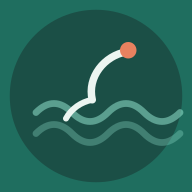
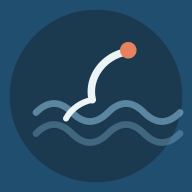
Switch theme from teal-green to deep ocean blue
Recolor the CSS palette, chart lines, app icons, and favicon from the
teal/emerald scheme to a deep sea-blue palette for a stronger ocean
feel. Coral and amber accent colors are kept for contrast.

Claude-Session: https://claude.ai/code/session_01NPJJPuwYrZegrDM2w1YF7g

diff --git a/index.html b/index.html
@@ -5,7 +5,7 @@
 <meta name="viewport" content="width=device-width, initial-scale=1.0, maximum-scale=1.0">
 <title>บันทึกฟาร์มกุ้งรายสัปดาห์</title>
 <meta name="description" content="แอปบันทึกข้อมูลฟาร์มกุ้งรายสัปดาห์ ติดตามไซส์กุ้ง อาหาร และ ADG ใช้งานได้แบบออฟไลน์">
-<meta name="theme-color" content="#1F6E5F">
+<meta name="theme-color" content="#1C6FA6">
 <link rel="manifest" href="./manifest.webmanifest">
 <link rel="icon" href="./favicon.ico" sizes="any">
 <link rel="icon" type="image/png" sizes="192x192" href="./icons/icon-192.png">
@@ -19,28 +19,28 @@
 <link href="https://fonts.googleapis.com/css2?family=Taviraj:wght@400;500;600;700&family=IBM+Plex+Sans+Thai:wght@400;500;600;700&display=swap" rel="stylesheet">
 <style>
   :root{
-    --bg:#0A1614;
-    --bg-grad:radial-gradient(1200px 600px at 50% -10%, rgba(47,163,140,.12), transparent 60%);
-    --surface:#132622;
-    --surface-soft:#18332C;
-    --surface-hi:#1E3A32;
-    --ink:#F1F7F4;
-    --ink-soft:#9FB7AE;
-    --ink-faint:#6E8880;
-    --teal-900:#081A18;
-    --teal-700:#1B4F46;
-    --teal-600:#1F6E5F;
-    --teal-500:#2FA38C;
-    --teal-400:#4CC0A6;
-    --heading:#8FE0CB;
-    --teal-100:rgba(47,163,140,.16);
+    --bg:#081824;
+    --bg-grad:radial-gradient(1200px 600px at 50% -10%, rgba(46,147,203,.14), transparent 60%);
+    --surface:#102436;
+    --surface-soft:#152C41;
+    --surface-hi:#1B3750;
+    --ink:#EFF6FA;
+    --ink-soft:#9DB7C8;
+    --ink-faint:#6B8698;
+    --teal-900:#061019;
+    --teal-700:#1A4E72;
+    --teal-600:#1C6FA6;
+    --teal-500:#2E93CB;
+    --teal-400:#52B7E0;
+    --heading:#8FDCEF;
+    --teal-100:rgba(46,147,203,.16);
     --coral:#E8815F;
     --coral-hi:#F0946F;
     --coral-soft:rgba(232,129,95,.16);
     --amber:#EFB753;
     --amber-soft:rgba(239,183,83,.16);
-    --line:#22403A;
-    --line-soft:#1B322C;
+    --line:#1E3A4E;
+    --line-soft:#17293A;
     --danger:#E2695A;
     --radius-sm:10px;
     --radius:16px;
@@ -62,7 +62,7 @@
   h1,h2,h3,.display{ font-family:'Taviraj', serif; font-weight:600; letter-spacing:.2px; }
   button{ font-family:inherit; }
   input,select,textarea{ font-family:inherit; }
-  ::selection{ background:var(--teal-500); color:#04120F; }
+  ::selection{ background:var(--teal-500); color:#04121C; }
 
   #app{
     max-width:720px; margin:0 auto; min-height:100vh; background:var(--bg);
@@ -121,7 +121,7 @@
   .farm-tab:hover{ border-color:var(--teal-500); color:var(--ink); }
   .farm-tab.active{
     background:linear-gradient(135deg, var(--teal-500), var(--teal-600));
-    border-color:transparent; color:#fff; box-shadow:0 4px 14px rgba(47,163,140,.35);
+    border-color:transparent; color:#fff; box-shadow:0 4px 14px rgba(46,147,203,.35);
     font-weight:600;
   }
 
@@ -188,7 +188,7 @@
   .field select{ color-scheme:dark; }
   .field input[type=date]{ color-scheme:dark; }
   .field input:focus, .field select:focus, .field textarea:focus{
-    outline:none; border-color:var(--teal-500); box-shadow:0 0 0 3px rgba(47,163,140,.22);
+    outline:none; border-color:var(--teal-500); box-shadow:0 0 0 3px rgba(46,147,203,.22);
   }
   .field-row{ display:grid; grid-template-columns:1fr 1fr; gap:10px; }
   .hint{ font-size:11.5px; color:var(--ink-faint); margin-top:5px; }
@@ -246,7 +246,7 @@
   }
   .overview-table tr.ov-zone-row:hover td{ background:var(--surface-hi); }
 
-  .panel-card{ border-color:var(--teal-500); box-shadow:0 0 0 3px rgba(47,163,140,.14), var(--shadow-sm); }
+  .panel-card{ border-color:var(--teal-500); box-shadow:0 0 0 3px rgba(46,147,203,.14), var(--shadow-sm); }
 
   .batch-list{ display:flex; flex-direction:column; gap:2px; }
   .batch-row{
@@ -284,7 +284,7 @@
 
   .login-wrap{
     min-height:100vh; display:flex; align-items:center; justify-content:center; padding:24px;
-    background-image:radial-gradient(900px 500px at 50% 0%, rgba(47,163,140,.16), transparent 65%);
+    background-image:radial-gradient(900px 500px at 50% 0%, rgba(46,147,203,.16), transparent 65%);
   }
   .login-card{
     width:100%; max-width:340px; background:var(--surface); border:1px solid var(--line); border-radius:var(--radius-lg);
@@ -293,7 +293,7 @@
   .login-card .wave{
     width:52px; height:52px; margin:0 auto 14px auto; color:var(--heading);
     background:linear-gradient(135deg, var(--teal-500), var(--teal-700)); border-radius:16px; padding:12px;
-    box-shadow:0 8px 20px rgba(47,163,140,.3);
+    box-shadow:0 8px 20px rgba(46,147,203,.3);
   }
   .login-card h1{ font-size:20px; margin:0 0 5px 0; color:var(--heading); }
   .login-card p{ font-size:12.5px; color:var(--ink-soft); margin:0 0 20px 0; }
@@ -338,7 +338,7 @@ const ICONS = {
   gear: `<svg viewBox="0 0 24 24" fill="none" xmlns="http://www.w3.org/2000/svg"><path d="M12 15a3 3 0 100-6 3 3 0 000 6z" stroke="currentColor" stroke-width="1.7"/><path d="M19.4 13.5a1.7 1.7 0 00.34 1.87l.06.06a2.05 2.05 0 11-2.9 2.9l-.06-.06a1.7 1.7 0 00-1.87-.34 1.7 1.7 0 00-1 1.55V20a2.05 2.05 0 01-4.1 0v-.1a1.7 1.7 0 00-1.1-1.55 1.7 1.7 0 00-1.87.34l-.06.06a2.05 2.05 0 11-2.9-2.9l.06-.06a1.7 1.7 0 00.34-1.87 1.7 1.7 0 00-1.55-1H4a2.05 2.05 0 010-4.1h.1a1.7 1.7 0 001.55-1.1 1.7 1.7 0 00-.34-1.87l-.06-.06a2.05 2.05 0 112.9-2.9l.06.06a1.7 1.7 0 001.87.34H10a1.7 1.7 0 001-1.55V4a2.05 2.05 0 014.1 0v.1a1.7 1.7 0 001 1.55 1.7 1.7 0 001.87-.34l.06-.06a2.05 2.05 0 112.9 2.9l-.06.06a1.7 1.7 0 00-.34 1.87V10a1.7 1.7 0 001.55 1h.1a2.05 2.05 0 010 4.1h-.1a1.7 1.7 0 00-1.55 1z" stroke="currentColor" stroke-width="1.4"/></svg>`,
   back: `<svg width="16" height="16" viewBox="0 0 24 24" fill="none" xmlns="http://www.w3.org/2000/svg"><path d="M15 18l-6-6 6-6" stroke="currentColor" stroke-width="2.2" stroke-linecap="round" stroke-linejoin="round"/></svg>`,
   plus: `<svg width="16" height="16" viewBox="0 0 24 24" fill="none" xmlns="http://www.w3.org/2000/svg"><path d="M12 5v14M5 12h14" stroke="currentColor" stroke-width="2.4" stroke-linecap="round"/></svg>`,
-  shrimp: `<svg width="34" height="34" viewBox="0 0 24 24" fill="none" xmlns="http://www.w3.org/2000/svg"><circle cx="12" cy="12" r="10" fill="#DCEBE6"/><path d="M8 15c1-4 3-7 6-8" stroke="#14584F" stroke-width="1.5" stroke-linecap="round"/><circle cx="15" cy="8" r="1.3" fill="#D9694A"/></svg>`,
+  shrimp: `<svg width="34" height="34" viewBox="0 0 24 24" fill="none" xmlns="http://www.w3.org/2000/svg"><circle cx="12" cy="12" r="10" fill="#D6EAF5"/><path d="M8 15c1-4 3-7 6-8" stroke="#123F5C" stroke-width="1.5" stroke-linecap="round"/><circle cx="15" cy="8" r="1.3" fill="#D9694A"/></svg>`,
 };
 
 const FARM_SEED = ['ฟาร์ม 1','ฟาร์ม 2','ฟาร์ม 3','ฟาร์ม 4','ฟาร์ม 5'];
@@ -962,7 +962,7 @@ function svgLineChart({labels, values, color, fillColor}){
     const gv = min + (max-min)*g/gridCount;
     const gy = yFor(gv);
     gridLines += `<line x1="${padL}" y1="${gy.toFixed(1)}" x2="${width-padR}" y2="${gy.toFixed(1)}" stroke="rgba(255,255,255,0.08)" stroke-width="1"/>`;
-    gridLines += `<text x="${padL-8}" y="${(gy+3.5).toFixed(1)}" text-anchor="end" font-size="10" fill="#6E8880">${gv.toFixed(Math.abs(gv)<10?1:0)}</text>`;
+    gridLines += `<text x="${padL-8}" y="${(gy+3.5).toFixed(1)}" text-anchor="end" font-size="10" fill="#6B8698">${gv.toFixed(Math.abs(gv)<10?1:0)}</text>`;
   }
 
   let pathSegments = [], currentSeg = [];
@@ -990,7 +990,7 @@ function svgLineChart({labels, values, color, fillColor}){
   let pointsHtml = '';
   valid.forEach(d=>{
     const x = xFor(d.i), y = yFor(d.v);
-    pointsHtml += `<circle cx="${x.toFixed(1)}" cy="${y.toFixed(1)}" r="${pointRadius}" fill="${color}" stroke="#0C1917" stroke-width="1.5"/>`;
+    pointsHtml += `<circle cx="${x.toFixed(1)}" cy="${y.toFixed(1)}" r="${pointRadius}" fill="${color}" stroke="#081824" stroke-width="1.5"/>`;
   });
 
   let xLabelsHtml = '';
@@ -999,7 +999,7 @@ function svgLineChart({labels, values, color, fillColor}){
   labels.forEach((lab,i)=>{
     if(i%step===0 || i===n-1){
       const shortLab = lab.split('(')[0].trim();
-      xLabelsHtml += `<text x="${xFor(i).toFixed(1)}" y="${height-6}" text-anchor="middle" font-size="10" fill="#6E8880">${escapeHtml(shortLab)}</text>`;
+      xLabelsHtml += `<text x="${xFor(i).toFixed(1)}" y="${height-6}" text-anchor="middle" font-size="10" fill="#6B8698">${escapeHtml(shortLab)}</text>`;
     }
   });
 
@@ -1018,7 +1018,7 @@ function drawChartsFor(records, releaseDate){
   const sizeEl = document.getElementById('chart-size');
   if(sizeEl){
     const values = records.map(r=>{ const w=weightFromCount(r.sizeCount); return w? +w.toFixed(2):null; });
-    sizeEl.innerHTML = svgLineChart({labels, values, color:'#2FA38C', fillColor:'rgba(47,163,140,.18)'});
+    sizeEl.innerHTML = svgLineChart({labels, values, color:'#2E93CB', fillColor:'rgba(46,147,203,.18)'});
   }
 
   const feedEl = document.getElementById('chart-feed');
